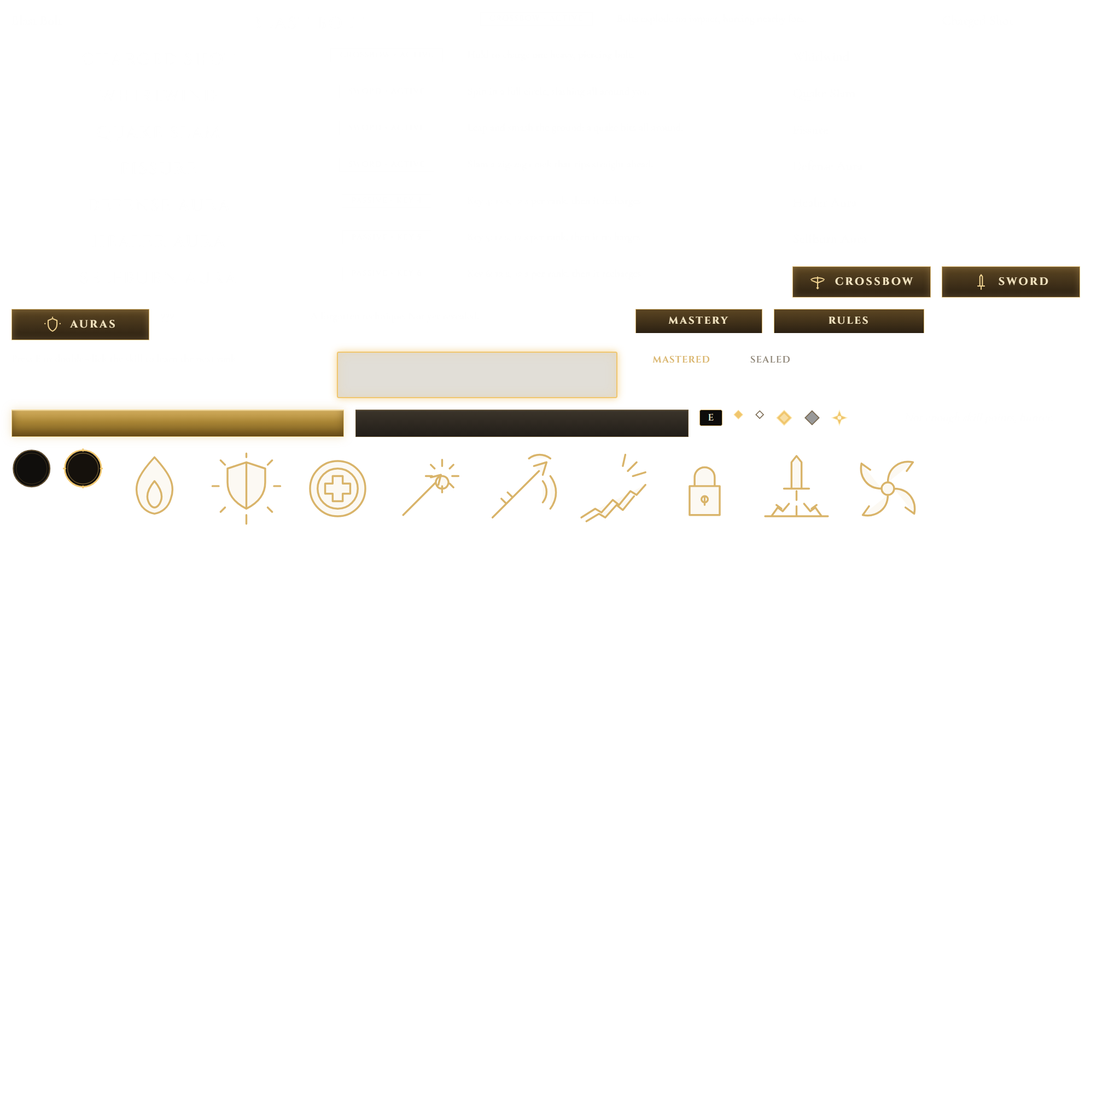
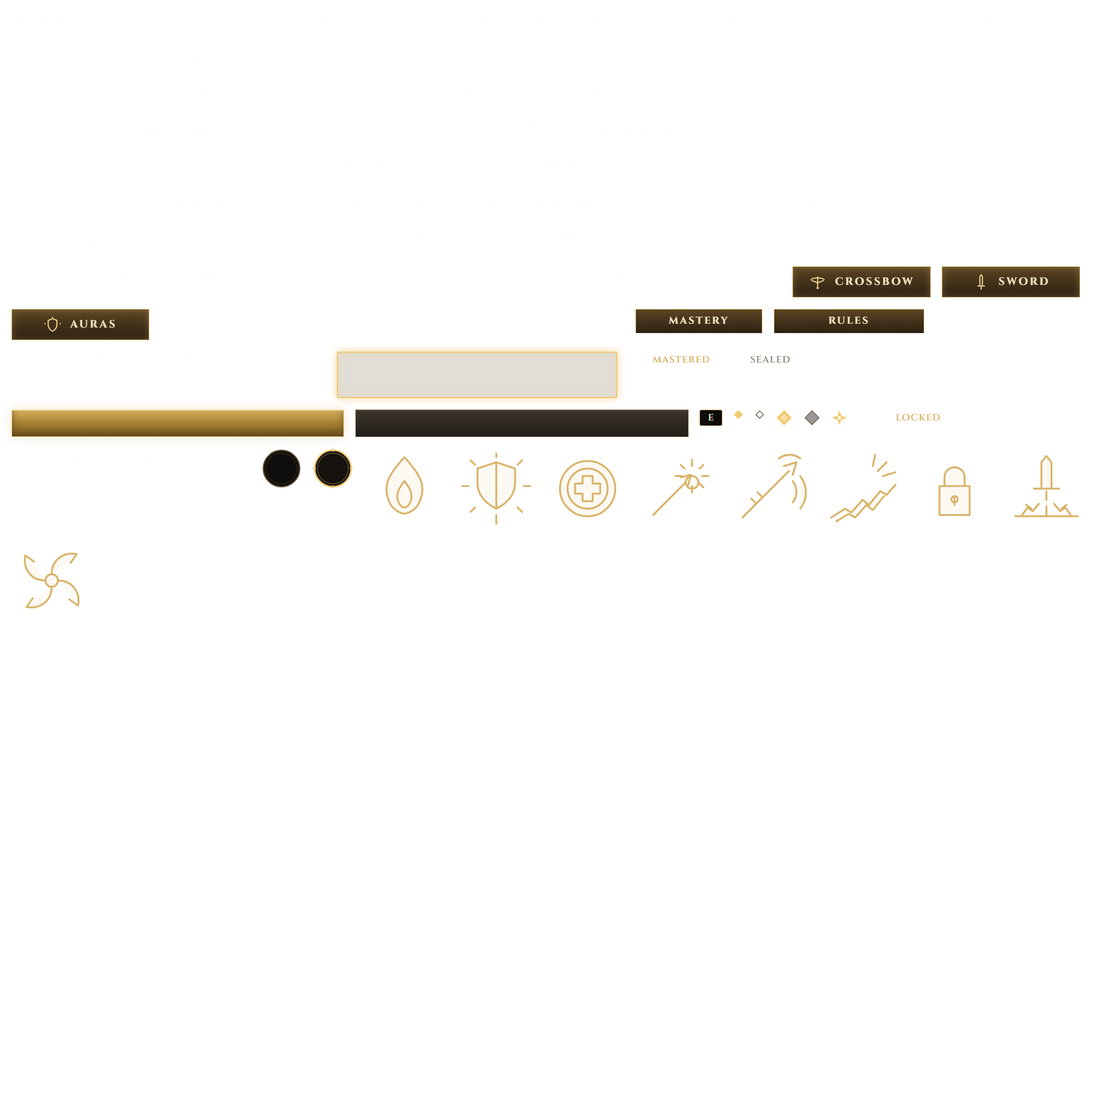
TGA #416: skill tree mock uses the live rank rules (cost multipliers x1/x5/x10, prerequisites)

diff --git a/tools/tga/vesna/layout_sk.js b/tools/tga/vesna/layout_sk.js
@@ -1,1 +1,1 @@
-window.L = {"TW": 1672, "TH": 941, "S": 1.1483253588516746, "title": {"cx": 836, "y": 56}, "sub": {"cx": 836, "y": 93}, "portrait": {"x": 0, "y": 0, "w": 345, "h": 152}, "purse": {"x": 1288, "y": 38, "w": 367, "h": 44, "gold": [1328, 1355], "iron": [1473, 1500], "silver": [1588, 1612], "cy": 60}, "tabbar": {"x": 240, "y": 124, "w": 1182, "h": 50, "cy": 148, "lb": [316, 148], "rb": [1356, 148]}, "tabs": [{"cx": 530, "lx": 560, "x0": 420, "x1": 640, "icon": 470}, {"cx": 830, "lx": 850, "x0": 725, "x1": 935, "icon": 790}, {"cx": 1130, "lx": 1150, "x0": 1020, "x1": 1240, "icon": 1090}], "left": {"x": 25, "y": 200, "w": 472, "h": 645}, "lhead": {"x": 40, "y": 212, "w": 440, "h": 46, "cy": 234, "laurel": 78, "text": 120, "chev": 448}, "rows": {"x": 45, "y0": 275, "step": 80, "h": 68, "w": 427, "n": 5, "icon": [47, 122], "name": [137, 293], "deff": [137, 322], "state": [457, 308]}, "rsel": {"dx": -10, "dy": -3, "w": 447, "h": 74}, "scroll": {"x": 484, "y": 275, "w": 5, "h": 470}, "mid": {"x": 520, "y": 200, "w": 585, "h": 655}, "ititle": {"cx": 813, "y": 230}, "tags": {"y": 267, "slot_cx": 743, "piece_cx": 911, "h": 22}, "turn": {"cx": 815, "cy": 430, "w": 420, "h": 280}, "arrows": {"l": 543, "r": 1080, "cy": 445}, "dots": {"cx": 819, "y": 563, "step": 19}, "cmp": {"x": 540, "y": 590, "w": 545, "h": 72, "div": 793, "shield": [581, 625], "plus": [616, 637], "cur": [917, 637], "arr": 953, "after": [1037, 637]}, "bonus": {"x": 540, "y": 668, "w": 545, "h": 122, "head_y": 687, "count_r": 1066, "lines": [723, 748, 771], "diamond": 570, "text": 589}, "buy": {"x": 547, "y": 802, "w": 530, "h": 44, "key": [655, 824], "text": 697, "cy": 824}, "right": {"x": 1128, "y": 200, "w": 520, "h": 648}, "rtabs": {"y": 200, "h": 38, "eq": [1198, 1400], "sp": [1400, 1640]}, "hero": {"x": 1250, "y": 242, "w": 280, "h": 423}, "slot": {"lx": 1207, "rx": 1585, "cy0": 274, "step": 72, "size": 58}, "stats": {"x": 1150, "y": 668, "w": 485, "h": 157, "rows": [691, 728, 764, 800], "icon": 1186, "label": 1213, "val": 1376, "arr": 1422, "after": 1440}, "foot": {"y": 870, "h": 71, "cy": 898}, "tabnames": ["CROSSBOW", "SWORD", "AURAS"], "sealed": {"0": 3, "1": 2, "2": 0}, "maxrank": 3, "spine": {"x": 84, "w": 3}, "rankpips": {"cx": 815, "y": 566, "step": 34}, "cost": {"x": 540, "y": 590, "w": 545, "h": 72, "div": 793}, "mastery": {"head0": 262, "x": 1160, "label": 1214, "pip0": 1490, "pipstep": 28, "icon": 1186, "step": 40}, "keys": {"y0": 690, "step": 36}, "atlas": {"name_blast": {"x": 18, "y": 18, "w": 220, "h": 30, "kind": "name", "p": "Blast Bolt"}, "title_blast": {"x": 256, "y": 18, "w": 470, "h": 40, "kind": "title", "p": "BLAST BOLT"}, "tag_blast": {"x": 744, "y": 18, "w": 220, "h": 24, "kind": "tag", "p": "CROSSBOW  \u2022  ACTIVE"}, "d1_blast": {"x": 982, "y": 18, "w": 500, "h": 24, "kind": "desc", "p": "Bolts explode on impact, hurting nearby foes."}, "name_charge": {"x": 1500, "y": 18, "w": 220, "h": 30, "kind": "name", "p": "Charged Shot"}, "title_charge": {"x": 18, "y": 76, "w": 470, "h": 40, "kind": "title", "p": "CHARGED SHOT"}, "tag_charge": {"x": 506, "y": 76, "w": 220, "h": 24, "kind": "tag", "p": "CROSSBOW  \u2022  ACTIVE"}, "d1_charge": {"x": 744, "y": 76, "w": 500, "h": 24, "kind": "desc", "p": "Hold to charge one heavy, piercing bolt."}, "name_whirl": {"x": 1262, "y": 76, "w": 220, "h": 30, "kind": "name", "p": "Whirlwind"}, "title_whirl": {"x": 18, "y": 134, "w": 470, "h": 40, "kind": "title", "p": "WHIRLWIND"}, "tag_whirl": {"x": 506, "y": 134, "w": 220, "h": 24, "kind": "tag", "p": "SWORD  \u2022  ACTIVE"}, "d1_whirl": {"x": 744, "y": 134, "w": 500, "h": 24, "kind": "desc", "p": "Spin in a full circle, slashing all around you."}, "name_quake": {"x": 1262, "y": 134, "w": 220, "h": 30, "kind": "name", "p": "Quake Slam"}, "title_quake": {"x": 18, "y": 192, "w": 470, "h": 40, "kind": "title", "p": "QUAKE SLAM"}, "tag_quake": {"x": 506, "y": 192, "w": 220, "h": 24, "kind": "tag", "p": "SWORD  \u2022  ACTIVE"}, "d1_quake": {"x": 744, "y": 192, "w": 500, "h": 24, "kind": "desc", "p": "Leap and smash the ground: a quake hits all around."}, "name_fissure": {"x": 1262, "y": 192, "w": 220, "h": 30, "kind": "name", "p": "Fissure"}, "title_fissure": {"x": 18, "y": 250, "w": 470, "h": 40, "kind": "title", "p": "FISSURE"}, "tag_fissure": {"x": 506, "y": 250, "w": 220, "h": 24, "kind": "tag", "p": "SWORD  \u2022  ACTIVE"}, "d1_fissure": {"x": 744, "y": 250, "w": 500, "h": 24, "kind": "desc", "p": "Slam a zig-zag crack that rips straight ahead."}, "name_adef": {"x": 1262, "y": 250, "w": 220, "h": 30, "kind": "name", "p": "Defense Aura"}, "title_adef": {"x": 18, "y": 308, "w": 470, "h": 40, "kind": "title", "p": "DEFENSE AURA"}, "tag_adef": {"x": 506, "y": 308, "w": 220, "h": 24, "kind": "tag", "p": "PASSIVE  \u2022  KEY 4"}, "d1_adef": {"x": 744, "y": 308, "w": 500, "h": 24, "kind": "desc", "p": "Key 4: 12 s, +2 s per rank, then it recharges."}, "name_aheal": {"x": 1262, "y": 308, "w": 220, "h": 30, "kind": "name", "p": "Healer Aura"}, "title_aheal": {"x": 18, "y": 366, "w": 470, "h": 40, "kind": "title", "p": "HEALER AURA"}, "tag_aheal": {"x": 506, "y": 366, "w": 220, "h": 24, "kind": "tag", "p": "PASSIVE  \u2022  KEY 5"}, "d1_aheal": {"x": 744, "y": 366, "w": 500, "h": 24, "kind": "desc", "p": "Key 5: 12 s, +2 s per rank, then it recharges."}, "name_aburn": {"x": 1262, "y": 366, "w": 220, "h": 30, "kind": "name", "p": "Selfburn Aura"}, "title_aburn": {"x": 18, "y": 424, "w": 470, "h": 40, "kind": "title", "p": "SELFBURN AURA"}, "tag_aburn": {"x": 506, "y": 424, "w": 220, "h": 24, "kind": "tag", "p": "PASSIVE  \u2022  KEY 6"}, "d1_aburn": {"x": 744, "y": 424, "w": 500, "h": 24, "kind": "desc", "p": "Key 6: 12 s, +2 s per rank, then it recharges."}, "tab0": {"x": 1262, "y": 424, "w": 220, "h": 50, "kind": "tab", "p": "CROSSBOW"}, "tab1": {"x": 1500, "y": 424, "w": 220, "h": 50, "kind": "tab", "p": "SWORD"}, "tab2": {"x": 18, "y": 492, "w": 220, "h": 50, "kind": "tab", "p": "AURAS"}, "name_sealed": {"x": 256, "y": 492, "w": 220, "h": 30, "kind": "name", "p": "???"}, "d_sealed": {"x": 494, "y": 492, "w": 500, "h": 24, "kind": "desc", "p": "A forgotten technique. Not yet revealed."}, "rtab0": {"x": 1012, "y": 492, "w": 202, "h": 38, "kind": "rtab", "p": "MASTERY"}, "rtab1": {"x": 1232, "y": 492, "w": 240, "h": 38, "kind": "rtab", "p": "RULES"}, "learnhint": {"x": 18, "y": 560, "w": 500, "h": 24, "kind": "desc", "p": "Press E or double-click the skill to learn the next rank."}, "rsel": {"x": 536, "y": 560, "w": 447, "h": 74, "kind": "rsel", "p": ""}, "maxed": {"x": 1001, "y": 560, "w": 130, "h": 26, "kind": "state", "p": "MASTERED"}, "sealed": {"x": 1149, "y": 560, "w": 110, "h": 26, "kind": "state", "p": "SEALED"}, "btn_on": {"x": 18, "y": 652, "w": 530, "h": 44, "kind": "btn", "p": "on"}, "btn_off": {"x": 566, "y": 652, "w": 530, "h": 44, "kind": "btn", "p": "off"}, "key_e": {"x": 1114, "y": 652, "w": 36, "h": 26, "kind": "key", "p": "E"}, "pip_on": {"x": 1168, "y": 652, "w": 16, "h": 16, "kind": "pip", "p": "on"}, "pip_off": {"x": 1202, "y": 652, "w": 16, "h": 16, "kind": "pip", "p": "off"}, "bigpip_on": {"x": 1236, "y": 652, "w": 26, "h": 26, "kind": "bigpip", "p": "on"}, "bigpip_off": {"x": 1280, "y": 652, "w": 26, "h": 26, "kind": "bigpip", "p": "off"}, "spt": {"x": 1324, "y": 652, "w": 26, "h": 26, "kind": "spt", "p": ""}, "nopts": {"x": 1368, "y": 652, "w": 380, "h": 26, "kind": "msg", "p": "Not enough skill points, hunter."}, "ring": {"x": 18, "y": 714, "w": 64, "h": 64, "kind": "ring", "p": ""}, "ring_on": {"x": 100, "y": 714, "w": 64, "h": 64, "kind": "ring", "p": "on"}, "glyph_aburn": {"x": 182, "y": 714, "w": 128, "h": 128, "kind": "glyph", "p": "aburn"}, "glyph_adef": {"x": 328, "y": 714, "w": 128, "h": 128, "kind": "glyph", "p": "adef"}, "glyph_aheal": {"x": 474, "y": 714, "w": 128, "h": 128, "kind": "glyph", "p": "aheal"}, "glyph_blast": {"x": 620, "y": 714, "w": 128, "h": 128, "kind": "glyph", "p": "blast"}, "glyph_charge": {"x": 766, "y": 714, "w": 128, "h": 128, "kind": "glyph", "p": "charge"}, "glyph_fissure": {"x": 912, "y": 714, "w": 128, "h": 128, "kind": "glyph", "p": "fissure"}, "glyph_lock": {"x": 1058, "y": 714, "w": 128, "h": 128, "kind": "glyph", "p": "lock"}, "glyph_quake": {"x": 1204, "y": 714, "w": 128, "h": 128, "kind": "glyph", "p": "quake"}, "glyph_whirl": {"x": 1350, "y": 714, "w": 128, "h": 128, "kind": "glyph", "p": "whirl"}}, "items": [{"key": "blast", "tab": 0, "name": "Blast Bolt", "title": "BLAST BOLT", "tag": "CROSSBOW  \u2022  ACTIVE", "glyph": "blast", "desc": ["Bolts explode on impact, hurting nearby foes."], "src": ["RkA", "R"], "hotkey": ""}, {"key": "charge", "tab": 0, "name": "Charged Shot", "title": "CHARGED SHOT", "tag": "CROSSBOW  \u2022  ACTIVE", "glyph": "charge", "desc": ["Hold to charge one heavy, piercing bolt."], "src": ["RkA", "G"], "hotkey": ""}, {"key": "whirl", "tab": 1, "name": "Whirlwind", "title": "WHIRLWIND", "tag": "SWORD  \u2022  ACTIVE", "glyph": "whirl", "desc": ["Spin in a full circle, slashing all around you."], "src": ["RkB", "G"], "hotkey": ""}, {"key": "quake", "tab": 1, "name": "Quake Slam", "title": "QUAKE SLAM", "tag": "SWORD  \u2022  ACTIVE", "glyph": "quake", "desc": ["Leap and smash the ground: a quake hits all around."], "src": ["RkB", "B"], "hotkey": ""}, {"key": "fissure", "tab": 1, "name": "Fissure", "title": "FISSURE", "tag": "SWORD  \u2022  ACTIVE", "glyph": "fissure", "desc": ["Slam a zig-zag crack that rips straight ahead."], "src": ["RkB", "A"], "hotkey": ""}, {"key": "adef", "tab": 2, "name": "Defense Aura", "title": "DEFENSE AURA", "tag": "PASSIVE  \u2022  KEY 4", "glyph": "adef", "desc": ["Key 4: 12 s, +2 s per rank, then it recharges."], "src": "AuraDef", "hotkey": "4"}, {"key": "aheal", "tab": 2, "name": "Healer Aura", "title": "HEALER AURA", "tag": "PASSIVE  \u2022  KEY 5", "glyph": "aheal", "desc": ["Key 5: 12 s, +2 s per rank, then it recharges."], "src": "AuraHeal", "hotkey": "5"}, {"key": "aburn", "tab": 2, "name": "Selfburn Aura", "title": "SELFBURN AURA", "tag": "PASSIVE  \u2022  KEY 6", "glyph": "aburn", "desc": ["Key 6: 12 s, +2 s per rank, then it recharges."], "src": "AuraBurn", "hotkey": "6"}]};
+window.L = {"TW": 1672, "TH": 941, "S": 1.1483253588516746, "title": {"cx": 836, "y": 56}, "sub": {"cx": 836, "y": 93}, "portrait": {"x": 0, "y": 0, "w": 345, "h": 152}, "purse": {"x": 1288, "y": 38, "w": 367, "h": 44, "gold": [1328, 1355], "iron": [1473, 1500], "silver": [1588, 1612], "cy": 60}, "tabbar": {"x": 240, "y": 124, "w": 1182, "h": 50, "cy": 148, "lb": [316, 148], "rb": [1356, 148]}, "tabs": [{"cx": 530, "lx": 560, "x0": 420, "x1": 640, "icon": 470}, {"cx": 830, "lx": 850, "x0": 725, "x1": 935, "icon": 790}, {"cx": 1130, "lx": 1150, "x0": 1020, "x1": 1240, "icon": 1090}], "left": {"x": 25, "y": 200, "w": 472, "h": 645}, "lhead": {"x": 40, "y": 212, "w": 440, "h": 46, "cy": 234, "laurel": 78, "text": 120, "chev": 448}, "rows": {"x": 45, "y0": 275, "step": 80, "h": 68, "w": 427, "n": 5, "icon": [47, 122], "name": [137, 293], "deff": [137, 322], "state": [457, 308]}, "rsel": {"dx": -10, "dy": -3, "w": 447, "h": 74}, "scroll": {"x": 484, "y": 275, "w": 5, "h": 470}, "mid": {"x": 520, "y": 200, "w": 585, "h": 655}, "ititle": {"cx": 813, "y": 230}, "tags": {"y": 267, "slot_cx": 743, "piece_cx": 911, "h": 22}, "turn": {"cx": 815, "cy": 430, "w": 420, "h": 280}, "arrows": {"l": 543, "r": 1080, "cy": 445}, "dots": {"cx": 819, "y": 563, "step": 19}, "cmp": {"x": 540, "y": 590, "w": 545, "h": 72, "div": 793, "shield": [581, 625], "plus": [616, 637], "cur": [917, 637], "arr": 953, "after": [1037, 637]}, "bonus": {"x": 540, "y": 668, "w": 545, "h": 122, "head_y": 687, "count_r": 1066, "lines": [723, 748, 771], "diamond": 570, "text": 589}, "buy": {"x": 547, "y": 802, "w": 530, "h": 44, "key": [655, 824], "text": 697, "cy": 824}, "right": {"x": 1128, "y": 200, "w": 520, "h": 648}, "rtabs": {"y": 200, "h": 38, "eq": [1198, 1400], "sp": [1400, 1640]}, "hero": {"x": 1250, "y": 242, "w": 280, "h": 423}, "slot": {"lx": 1207, "rx": 1585, "cy0": 274, "step": 72, "size": 58}, "stats": {"x": 1150, "y": 668, "w": 485, "h": 157, "rows": [691, 728, 764, 800], "icon": 1186, "label": 1213, "val": 1376, "arr": 1422, "after": 1440}, "foot": {"y": 870, "h": 71, "cy": 898}, "tabnames": ["CROSSBOW", "SWORD", "AURAS"], "sealed": {"0": 3, "1": 2, "2": 0}, "maxrank": 3, "mult": {"blast": 1, "charge": 5, "whirl": 1, "quake": 5, "fissure": 10}, "prereq": {"charge": "blast", "quake": "whirl", "fissure": "quake"}, "spine": {"x": 84, "w": 3}, "rankpips": {"cx": 815, "y": 566, "step": 34}, "cost": {"x": 540, "y": 590, "w": 545, "h": 72, "div": 793}, "mastery": {"head0": 262, "x": 1160, "label": 1214, "pip0": 1490, "pipstep": 28, "icon": 1186, "step": 40}, "keys": {"y0": 690, "step": 36}, "atlas": {"name_blast": {"x": 18, "y": 18, "w": 220, "h": 30, "kind": "name", "p": "Blast Bolt"}, "title_blast": {"x": 256, "y": 18, "w": 470, "h": 40, "kind": "title", "p": "BLAST BOLT"}, "tag_blast": {"x": 744, "y": 18, "w": 220, "h": 24, "kind": "tag", "p": "CROSSBOW  \u2022  ACTIVE"}, "d1_blast": {"x": 982, "y": 18, "w": 500, "h": 24, "kind": "desc", "p": "Bolts explode on impact, hurting nearby foes."}, "name_charge": {"x": 1500, "y": 18, "w": 220, "h": 30, "kind": "name", "p": "Charged Shot"}, "title_charge": {"x": 18, "y": 76, "w": 470, "h": 40, "kind": "title", "p": "CHARGED SHOT"}, "tag_charge": {"x": 506, "y": 76, "w": 220, "h": 24, "kind": "tag", "p": "CROSSBOW  \u2022  ACTIVE"}, "d1_charge": {"x": 744, "y": 76, "w": 500, "h": 24, "kind": "desc", "p": "Hold to charge one heavy, piercing bolt."}, "name_whirl": {"x": 1262, "y": 76, "w": 220, "h": 30, "kind": "name", "p": "Whirlwind"}, "title_whirl": {"x": 18, "y": 134, "w": 470, "h": 40, "kind": "title", "p": "WHIRLWIND"}, "tag_whirl": {"x": 506, "y": 134, "w": 220, "h": 24, "kind": "tag", "p": "SWORD  \u2022  ACTIVE"}, "d1_whirl": {"x": 744, "y": 134, "w": 500, "h": 24, "kind": "desc", "p": "Spin in a full circle, slashing all around you."}, "name_quake": {"x": 1262, "y": 134, "w": 220, "h": 30, "kind": "name", "p": "Quake Slam"}, "title_quake": {"x": 18, "y": 192, "w": 470, "h": 40, "kind": "title", "p": "QUAKE SLAM"}, "tag_quake": {"x": 506, "y": 192, "w": 220, "h": 24, "kind": "tag", "p": "SWORD  \u2022  ACTIVE"}, "d1_quake": {"x": 744, "y": 192, "w": 500, "h": 24, "kind": "desc", "p": "Leap and smash the ground: a quake hits all around."}, "name_fissure": {"x": 1262, "y": 192, "w": 220, "h": 30, "kind": "name", "p": "Fissure"}, "title_fissure": {"x": 18, "y": 250, "w": 470, "h": 40, "kind": "title", "p": "FISSURE"}, "tag_fissure": {"x": 506, "y": 250, "w": 220, "h": 24, "kind": "tag", "p": "SWORD  \u2022  ACTIVE"}, "d1_fissure": {"x": 744, "y": 250, "w": 500, "h": 24, "kind": "desc", "p": "Slam a zig-zag crack that rips straight ahead."}, "name_adef": {"x": 1262, "y": 250, "w": 220, "h": 30, "kind": "name", "p": "Defense Aura"}, "title_adef": {"x": 18, "y": 308, "w": 470, "h": 40, "kind": "title", "p": "DEFENSE AURA"}, "tag_adef": {"x": 506, "y": 308, "w": 220, "h": 24, "kind": "tag", "p": "PASSIVE  \u2022  KEY 4"}, "d1_adef": {"x": 744, "y": 308, "w": 500, "h": 24, "kind": "desc", "p": "Key 4: 12 s, +2 s per rank, then it recharges."}, "name_aheal": {"x": 1262, "y": 308, "w": 220, "h": 30, "kind": "name", "p": "Healer Aura"}, "title_aheal": {"x": 18, "y": 366, "w": 470, "h": 40, "kind": "title", "p": "HEALER AURA"}, "tag_aheal": {"x": 506, "y": 366, "w": 220, "h": 24, "kind": "tag", "p": "PASSIVE  \u2022  KEY 5"}, "d1_aheal": {"x": 744, "y": 366, "w": 500, "h": 24, "kind": "desc", "p": "Key 5: 12 s, +2 s per rank, then it recharges."}, "name_aburn": {"x": 1262, "y": 366, "w": 220, "h": 30, "kind": "name", "p": "Selfburn Aura"}, "title_aburn": {"x": 18, "y": 424, "w": 470, "h": 40, "kind": "title", "p": "SELFBURN AURA"}, "tag_aburn": {"x": 506, "y": 424, "w": 220, "h": 24, "kind": "tag", "p": "PASSIVE  \u2022  KEY 6"}, "d1_aburn": {"x": 744, "y": 424, "w": 500, "h": 24, "kind": "desc", "p": "Key 6: 12 s, +2 s per rank, then it recharges."}, "tab0": {"x": 1262, "y": 424, "w": 220, "h": 50, "kind": "tab", "p": "CROSSBOW"}, "tab1": {"x": 1500, "y": 424, "w": 220, "h": 50, "kind": "tab", "p": "SWORD"}, "tab2": {"x": 18, "y": 492, "w": 220, "h": 50, "kind": "tab", "p": "AURAS"}, "name_sealed": {"x": 256, "y": 492, "w": 220, "h": 30, "kind": "name", "p": "???"}, "d_sealed": {"x": 494, "y": 492, "w": 500, "h": 24, "kind": "desc", "p": "A forgotten technique. Not yet revealed."}, "rtab0": {"x": 1012, "y": 492, "w": 202, "h": 38, "kind": "rtab", "p": "MASTERY"}, "rtab1": {"x": 1232, "y": 492, "w": 240, "h": 38, "kind": "rtab", "p": "RULES"}, "learnhint": {"x": 18, "y": 560, "w": 500, "h": 24, "kind": "desc", "p": "Press E or double-click the skill to learn the next rank."}, "rsel": {"x": 536, "y": 560, "w": 447, "h": 74, "kind": "rsel", "p": ""}, "maxed": {"x": 1001, "y": 560, "w": 130, "h": 26, "kind": "state", "p": "MASTERED"}, "sealed": {"x": 1149, "y": 560, "w": 110, "h": 26, "kind": "state", "p": "SEALED"}, "btn_on": {"x": 18, "y": 652, "w": 530, "h": 44, "kind": "btn", "p": "on"}, "btn_off": {"x": 566, "y": 652, "w": 530, "h": 44, "kind": "btn", "p": "off"}, "key_e": {"x": 1114, "y": 652, "w": 36, "h": 26, "kind": "key", "p": "E"}, "pip_on": {"x": 1168, "y": 652, "w": 16, "h": 16, "kind": "pip", "p": "on"}, "pip_off": {"x": 1202, "y": 652, "w": 16, "h": 16, "kind": "pip", "p": "off"}, "bigpip_on": {"x": 1236, "y": 652, "w": 26, "h": 26, "kind": "bigpip", "p": "on"}, "bigpip_off": {"x": 1280, "y": 652, "w": 26, "h": 26, "kind": "bigpip", "p": "off"}, "spt": {"x": 1324, "y": 652, "w": 26, "h": 26, "kind": "spt", "p": ""}, "needs": {"x": 1368, "y": 652, "w": 130, "h": 26, "kind": "state", "p": "LOCKED"}, "nopts": {"x": 18, "y": 714, "w": 380, "h": 26, "kind": "msg", "p": "Not enough skill points, hunter."}, "ring": {"x": 416, "y": 714, "w": 64, "h": 64, "kind": "ring", "p": ""}, "ring_on": {"x": 498, "y": 714, "w": 64, "h": 64, "kind": "ring", "p": "on"}, "glyph_aburn": {"x": 580, "y": 714, "w": 128, "h": 128, "kind": "glyph", "p": "aburn"}, "glyph_adef": {"x": 726, "y": 714, "w": 128, "h": 128, "kind": "glyph", "p": "adef"}, "glyph_aheal": {"x": 872, "y": 714, "w": 128, "h": 128, "kind": "glyph", "p": "aheal"}, "glyph_blast": {"x": 1018, "y": 714, "w": 128, "h": 128, "kind": "glyph", "p": "blast"}, "glyph_charge": {"x": 1164, "y": 714, "w": 128, "h": 128, "kind": "glyph", "p": "charge"}, "glyph_fissure": {"x": 1310, "y": 714, "w": 128, "h": 128, "kind": "glyph", "p": "fissure"}, "glyph_lock": {"x": 1456, "y": 714, "w": 128, "h": 128, "kind": "glyph", "p": "lock"}, "glyph_quake": {"x": 1602, "y": 714, "w": 128, "h": 128, "kind": "glyph", "p": "quake"}, "glyph_whirl": {"x": 18, "y": 860, "w": 128, "h": 128, "kind": "glyph", "p": "whirl"}}, "items": [{"key": "blast", "tab": 0, "name": "Blast Bolt", "title": "BLAST BOLT", "tag": "CROSSBOW  \u2022  ACTIVE", "glyph": "blast", "desc": ["Bolts explode on impact, hurting nearby foes."], "src": ["RkA", "R"], "hotkey": ""}, {"key": "charge", "tab": 0, "name": "Charged Shot", "title": "CHARGED SHOT", "tag": "CROSSBOW  \u2022  ACTIVE", "glyph": "charge", "desc": ["Hold to charge one heavy, piercing bolt."], "src": ["RkA", "G"], "hotkey": ""}, {"key": "whirl", "tab": 1, "name": "Whirlwind", "title": "WHIRLWIND", "tag": "SWORD  \u2022  ACTIVE", "glyph": "whirl", "desc": ["Spin in a full circle, slashing all around you."], "src": ["RkB", "G"], "hotkey": ""}, {"key": "quake", "tab": 1, "name": "Quake Slam", "title": "QUAKE SLAM", "tag": "SWORD  \u2022  ACTIVE", "glyph": "quake", "desc": ["Leap and smash the ground: a quake hits all around."], "src": ["RkB", "B"], "hotkey": ""}, {"key": "fissure", "tab": 1, "name": "Fissure", "title": "FISSURE", "tag": "SWORD  \u2022  ACTIVE", "glyph": "fissure", "desc": ["Slam a zig-zag crack that rips straight ahead."], "src": ["RkB", "A"], "hotkey": ""}, {"key": "adef", "tab": 2, "name": "Defense Aura", "title": "DEFENSE AURA", "tag": "PASSIVE  \u2022  KEY 4", "glyph": "adef", "desc": ["Key 4: 12 s, +2 s per rank, then it recharges."], "src": "AuraDef", "hotkey": "4"}, {"key": "aheal", "tab": 2, "name": "Healer Aura", "title": "HEALER AURA", "tag": "PASSIVE  \u2022  KEY 5", "glyph": "aheal", "desc": ["Key 5: 12 s, +2 s per rank, then it recharges."], "src": "AuraHeal", "hotkey": "5"}, {"key": "aburn", "tab": 2, "name": "Selfburn Aura", "title": "SELFBURN AURA", "tag": "PASSIVE  \u2022  KEY 6", "glyph": "aburn", "desc": ["Key 6: 12 s, +2 s per rank, then it recharges."], "src": "AuraBurn", "hotkey": "6"}]};

diff --git a/tools/tga/vesna/live_sk.js b/tools/tga/vesna/live_sk.js
@@ -19,7 +19,9 @@ const CREAM='#ede3cf', DIM='#9e9485', GOLD='#f0cc85', GREEN='#9edb5c', RED='#e05
 const level=12, spent=4, free=level-spent, tab=1, sel=1;
 const rank={blast:1,charge:0,whirl:1,quake:0,fissure:0,adef:1,aheal:0,aburn:0};
 const items=L.items, inTab=t=>items.filter(i=>i.tab===t);
-const cost=it=>rank[it.key]+1;                                   // live rule: next rank costs rank + 1 points
+const cost=it=>(L.mult[it.key]||2)*(rank[it.key]+1);            // live rule: mult x (rank + 1); auras 2 x (rank + 1) (old screen, to verify)
+const locked=it=>{ const p=L.prereq[it.key]; return !!p && rank[it.key]===0 && rank[p]===0; };
+const nameOf=k=>items.find(i=>i.key===k).name.toUpperCase();
 // header
 const t=L.tabs[tab]; cell('tab'+tab,(t.x0+t.x1)/2,L.tabbar.cy,null,'c');
 txt(free+'  POINTS',L.purse.gold[1],L.purse.cy,26,CREAM); txt('LEVEL '+level,L.purse.iron[1]+40,L.purse.cy,24,CREAM);
@@ -37,9 +39,10 @@ for(let i=0;i<nAll;i++){ const ry=R.y0+i*R.step, cy=ry+R.h/2, it=rows[i];
   const rk=rank[it.key]; cellC(rk>0?'ring_on':'ring',dx,cy,60); cellC('glyph_'+it.glyph,dx,cy,40,rk>0?'#f3d58e':GLY);
   cell('name_'+it.key,R.name[0],ry+R.name[1]-R.y0,CREAM);
   for(let p=0;p<3;p++) cell(p<rk?'pip_on':'pip_off',R.deff[0]+p*20,ry+R.deff[1]-R.y0);
-  txt('RANK '+rk+' / 3',R.deff[0]+70,ry+R.deff[1]-R.y0,17,DIM);
+  txt(locked(it)?'NEEDS '+nameOf(L.prereq[it.key]):'RANK '+rk+' / 3',R.deff[0]+70,ry+R.deff[1]-R.y0,17,locked(it)?'#c0705c':DIM);
   const sy=ry+R.state[1]-R.y0;
   if(rk>=3) cell('maxed',R.state[0],sy,null,'r');
+  else if(locked(it)) cell('needs',R.state[0],sy,null,'r');
   else { const c=cost(it), e=txt(String(c),R.state[0],sy,28,free>=c?GOLD:RED,'r'); cell('spt',R.state[0]-e.getBoundingClientRect().width-32,sy); } }
 // centre: the selected skill
 const it=rows[sel], rk=rank[it.key], c=cost(it);

diff --git a/tools/tga/vesna/layout_sk.py b/tools/tga/vesna/layout_sk.py
@@ -19,12 +19,16 @@ ITEMS = [
     ('aheal',   2, 'Healer Aura',   'HEALER AURA',    'PASSIVE  •  KEY 5', 'aheal', ('Key 5: 12 s, +2 s per rank, then it recharges.',), 'AuraHeal', '5'),
     ('aburn',   2, 'Selfburn Aura', 'SELFBURN AURA',  'PASSIVE  •  KEY 6', 'aburn', ('Key 6: 12 s, +2 s per rank, then it recharges.',), 'AuraBurn', '6'),
 ]
+# cost multiplier (next rank costs mult x (rank + 1)) and prerequisite (the skill before it in the chain needs rank >= 1),
+# both read from the live branches: CX_3498 x1, CX_3674 x5, CX_4098 x1, CX_4260 x5, CX_4429 x10; CX_3613 / 4207 / 4376 gates
+MULT = {'blast': 1, 'charge': 5, 'whirl': 1, 'quake': 5, 'fissure': 10}
+PREREQ = {'charge': 'blast', 'quake': 'whirl', 'fissure': 'quake'}
 SEALED = {0: 3, 1: 2, 2: 0}          # sealed slots under each tab (the tree's ??? rows), drawn after the real ones
 ROWS_PER_TAB = 5
 
 L = dict(LT)
 L.update(dict(
-    TW=TW, TH=TH, S=S, tabnames=TABS, sealed=SEALED, maxrank=3,
+    TW=TW, TH=TH, S=S, tabnames=TABS, sealed=SEALED, maxrank=3, mult=MULT, prereq=PREREQ,
     tabs=[dict(cx=530, lx=560, x0=420, x1=640, icon=470), dict(cx=830, lx=850, x0=725, x1=935, icon=790),
           dict(cx=1130, lx=1150, x0=1020, x1=1240, icon=1090)],
     rows=dict(LT['rows'], n=5),
@@ -51,7 +55,7 @@ def cells():
           ('rsel', 447, 74, 'rsel', ''), ('maxed', 130, 26, 'state', 'MASTERED'), ('sealed', 110, 26, 'state', 'SEALED'),
           ('btn_on', 530, 44, 'btn', 'on'), ('btn_off', 530, 44, 'btn', 'off'), ('key_e', 36, 26, 'key', 'E'),
           ('pip_on', 16, 16, 'pip', 'on'), ('pip_off', 16, 16, 'pip', 'off'), ('bigpip_on', 26, 26, 'bigpip', 'on'), ('bigpip_off', 26, 26, 'bigpip', 'off'),
-          ('spt', 26, 26, 'spt', ''), ('nopts', 380, 26, 'msg', 'Not enough skill points, hunter.'),
+          ('spt', 26, 26, 'spt', ''), ('needs', 130, 26, 'state', 'LOCKED'), ('nopts', 380, 26, 'msg', 'Not enough skill points, hunter.'),
           ('ring', 64, 64, 'ring', ''), ('ring_on', 64, 64, 'ring', 'on')]
     for g in sorted({i[5] for i in ITEMS} | {'lock'}): c.append(('glyph_' + g, 128, 128, 'glyph', g))
     return c

diff --git a/handoffs/skilltree-416/DESIGN.md b/handoffs/skilltree-416/DESIGN.md
@@ -61,10 +61,23 @@ These are from the shipped games themselves (my own notes, no new sources):
   | Fissure | `RkB.A` |
 
   The tree is open while `St.R` > 0.5, and the points spent are in `St.A`.
-- Rank rules: max rank 3. The next rank costs rank + 1 points. Free points = Level − St.A. The upgrade branches are CX_4791 / 4803 / 4815 / 4829 / 4843.
+- Rank rules, read from the live branches (CX_4791 / 4803 / 4815 / 4829 / 4843):
+  - max rank 3;
+  - the next rank costs **mult × (rank + 1)** points, with mult ×1 for Blast Bolt and Whirlwind, ×5 for Charged Shot and Quake Slam, and ×10 for Fissure;
+  - **prerequisite:** Charged Shot needs Blast Bolt, Quake Slam needs Whirlwind, and Fissure needs Quake Slam (rank ≥ 1, unless the skill already has a rank);
+  - free points = Level − St.A.
+- A learned rank writes three params:
+
+  | Param | What it gets |
+  |---|---|
+  | `Rk*` | its channel + 1 |
+  | `St` | (1, St.G, skill index 0–4, St.A + cost) |
+  | `Fx` | (skill index, real time, Fx.B, Fx.A); this fires the unlock book |
+
+  BPC_SkillTome writes exactly the same values.
 - **To verify on the live export:**
-  - the skill ↔ channel mapping above;
-  - the aura costs and how auras store their ranks (BP_HeroAuras `AuraDef` / `AuraHeal` / `AuraBurn`);
+  - that these rules haven't changed since 10-30;
+  - the aura costs and how auras store their ranks (BP_HeroAuras `AuraDef` / `AuraHeal` / `AuraBurn`). The old screen showed 2 × (rank + 1), which the mock uses;
   - whether the active skills have hotkeys to show. The mock leaves those out rather than guess.
 
 ## 5. Build plan (same pattern as the Muster, which is installed and compiles in 5.8.4)
